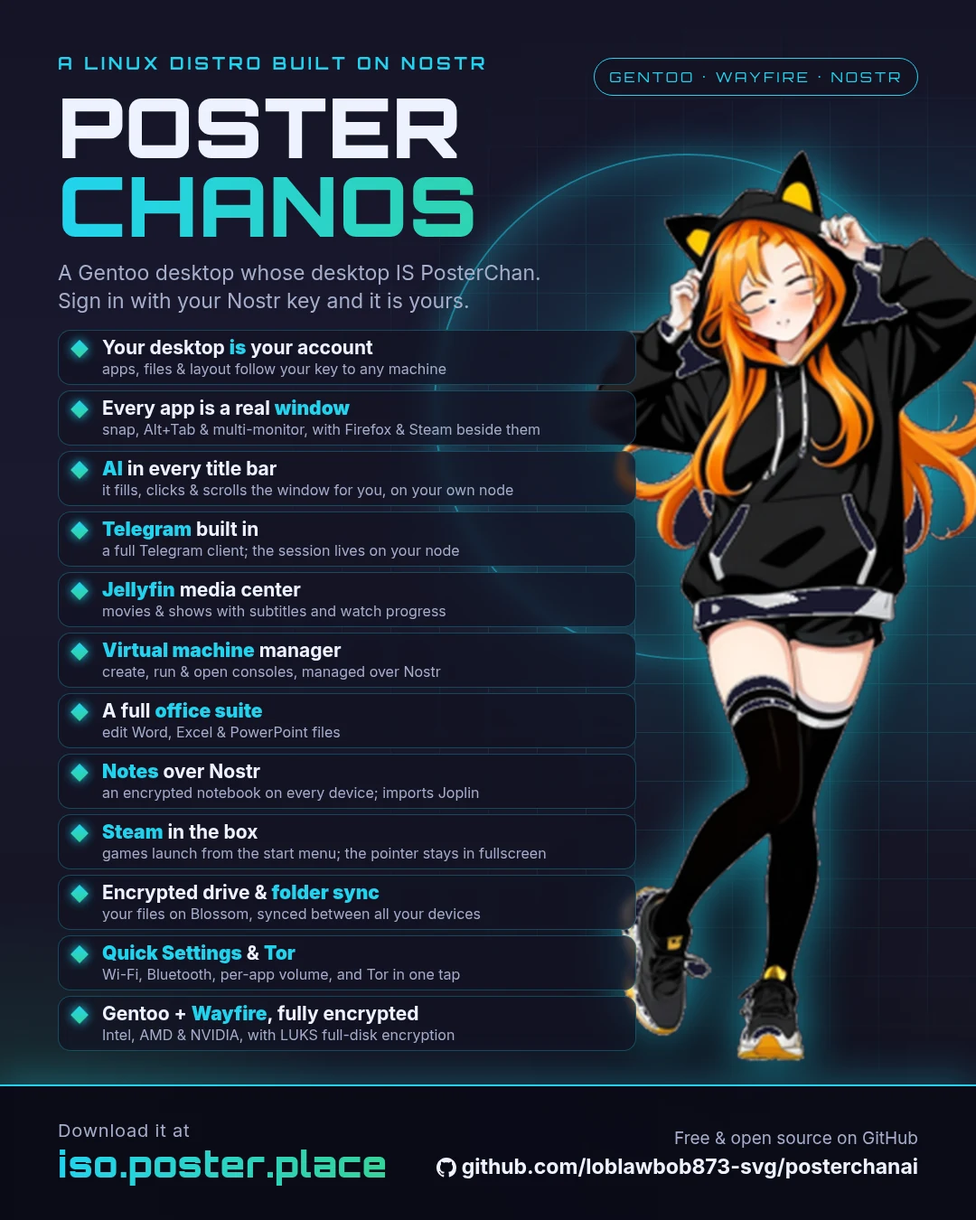
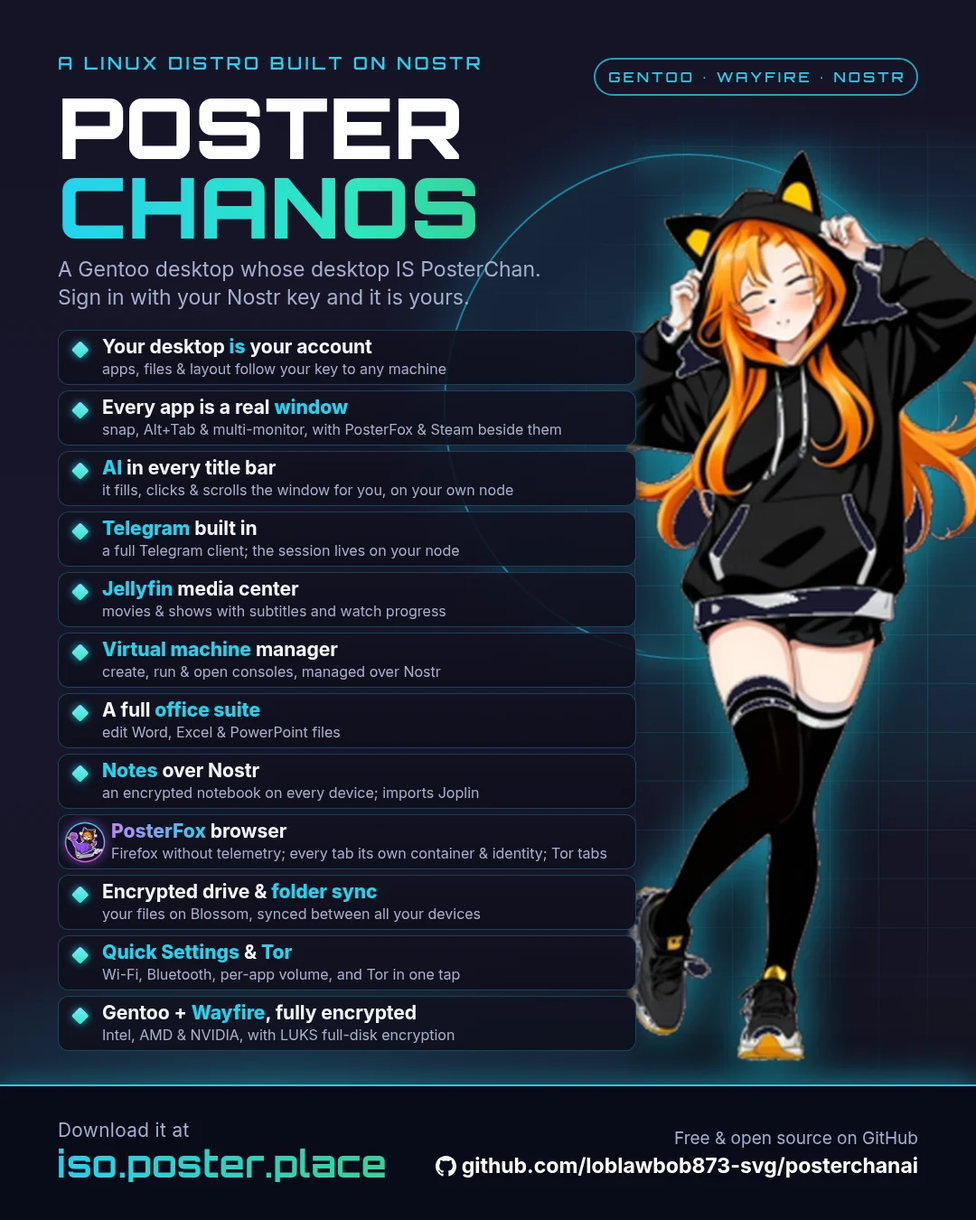
PosterChanOS promo + iso.poster.place: PosterFox, PosterChanOS's own browser
The poster (docs/promo/posterchan-os.webp) is now reproducible: its source was never committed, so
docs/promo/posterchanos-promo.html redraws it (Orbitron + Inter from Google Fonts, the mascot as an
image layer cut from the old poster, docs/promo/src/) and scripts/make_promo_poster.py renders it with
headless Chrome over CDP at exactly 1080x1350. The renderer refuses to write a poster whose web fonts
did not load, that has other than 12 cards, or where any card's text leaves its box or anything leaves
the canvas. Measured against the old poster, the shared text lands within 1-2px.

Content: the "Steam in the box" card is now "PosterFox browser -- Firefox without telemetry; every tab
its own container & identity; Tor tabs" with the PosterFox badge as its icon, and Steam moved into the
window card ("with PosterFox & Steam beside them"). README alt text mentions PosterFox.

iso.poster.place: a PosterFox band (artwork docs/promo/posterfox.webp, published as site/posterfox.webp,
five feature lines, link to the PosterFox releases), a card in the features grid, and the desktop
band's "Firefox, Steam" is now "PosterFox, Steam". Checked at 390px and 1280px: no horizontal scroll.

Tests: tests/test_iso_site.py 8 passed (new: the PosterFox section, image, releases link and grid card;
every /site/ image the page shows is in the publisher's FILES). Fail-first: the new test and the
updated FILES pin fail against the previous page/publisher (2 failed). test_readme_links_the_iso 1
[…]

diff --git a/docs/promo/posterchanos-promo.html b/docs/promo/posterchanos-promo.html
@@ -1,0 +1,93 @@
+<!doctype html>
+<html lang="en"><head><meta charset="utf-8">
+<title>PosterChanOS promo poster</title>
+<!-- Source of docs/promo/posterchan-os.webp (1080x1350). Render with scripts/make_promo_poster.py.
+     The mascot is an image layer cut from the original poster (src/posterchanos-mascot.png), with its own
+     glow behind her; everything else is drawn here. Keep exactly 12 cards: that is what fits. -->
+<link rel="preconnect" href="https://fonts.googleapis.com">
+<link rel="preconnect" href="https://fonts.gstatic.com" crossorigin>
+<link rel="stylesheet" href="https://fonts.googleapis.com/css2?family=Orbitron:wght@500;600;700;800;900&family=Inter:wght@400;500;700;800&display=block">
+<style>
+*{box-sizing:border-box;margin:0;padding:0}
+html,body{width:1080px;height:1350px;overflow:hidden}
+body{position:relative;font-family:Inter,system-ui,sans-serif;color:#eef1ff;background:#151426}
+/* the stage above the footer: grid + glows */
+.stage{position:absolute;left:0;top:0;width:1080px;height:1200px;overflow:hidden;
+  background:
+    radial-gradient(ellipse 760px 230px at 28% 100%,rgba(34,211,238,.20),transparent 70%),
+    radial-gradient(ellipse 620px 170px at 85% 100%,rgba(34,211,238,.10),transparent 70%),
+    radial-gradient(circle 360px at 770px 449px,rgba(34,211,238,.20),rgba(34,211,238,.06) 70%,transparent 100%),
+    linear-gradient(180deg,#151426 0%,#17162b 55%,#161628 100%)}
+.grid{position:absolute;inset:0;
+  background-image:linear-gradient(rgba(34,211,238,.07) 1px,transparent 1px),linear-gradient(90deg,rgba(34,211,238,.07) 1px,transparent 1px);
+  background-size:54px 54px;background-position:0 0px;
+  -webkit-mask-image:radial-gradient(circle 430px at 790px 520px,#000 30%,transparent 100%);
+          mask-image:radial-gradient(circle 430px at 790px 520px,#000 30%,transparent 100%)}
+.ring{position:absolute;left:491px;top:170px;width:558px;height:558px;border-radius:50%;
+  border:2px solid rgba(34,211,238,.55);box-shadow:0 0 60px rgba(34,211,238,.18),inset 0 0 80px rgba(34,211,238,.10)}
+.mascot{position:absolute;left:690px;top:120px;width:390px;height:1079px}
+
+.eyebrow{position:absolute;left:64px;top:60px;font:600 19.5px/1 Orbitron,sans-serif;letter-spacing:.17em;color:#22d3ee}
+.pill{position:absolute;left:657px;top:64px;width:359px;height:42px;border:2px solid rgba(34,211,238,.75);border-radius:22px;
+  display:flex;align-items:center;justify-content:center;font:500 16px/1 Orbitron,sans-serif;letter-spacing:.19em;color:#22d3ee;padding-left:.19em}
+h1{position:absolute;left:64px;top:96.5px;font:900 93px/88px Orbitron,sans-serif;letter-spacing:.005em}
+h1 .a{display:block;color:#fff}
+h1 .b{display:block;background:linear-gradient(90deg,#22d3ee,#2ee6c0 70%,#34d399);-webkit-background-clip:text;background-clip:text;color:transparent}
+.lede{position:absolute;left:64px;top:283px;width:600px;font:400 23px/31px Inter,sans-serif;color:#a5adcb}
+
+ul.cards{position:absolute;left:64px;top:365px;width:640px;list-style:none;display:flex;flex-direction:column;gap:6px}
+.cards li{position:relative;height:61px;border:1px solid rgba(34,211,238,.28);border-radius:12px;
+  background:linear-gradient(180deg,rgba(18,18,33,.90),rgba(14,14,27,.86));padding:5px 12px 0 48px;overflow:hidden}
+.cards li::before{content:'';position:absolute;left:16.5px;top:13.5px;width:13.5px;height:13.5px;transform:rotate(45deg);border-radius:2px;
+  background:linear-gradient(135deg,#7fe8ff,#2ee6c0);box-shadow:0 0 10px rgba(34,211,238,.8)}
+.cards li.badge::before{display:none}
+.cards li.badge img{position:absolute;left:5px;top:6px;width:48px;height:48px;filter:drop-shadow(0 0 6px rgba(167,110,255,.55))}
+.cards li.badge{padding-left:58px}
+.cards h2{font:700 21.1px/26px Inter,sans-serif;color:#f4f6ff;white-space:nowrap;letter-spacing:-.003em}
+.cards h2 b{color:#22d3ee;font-weight:800}
+.cards li.badge h2 b{background:linear-gradient(90deg,#c084fc,#22d3ee);-webkit-background-clip:text;background-clip:text;color:transparent}
+.cards p{font:400 16px/20px Inter,sans-serif;color:#a9b0cc;white-space:nowrap;margin-top:1px}
+
+.foot{position:absolute;left:0;top:1200px;width:1080px;height:150px;background:#080b18;border-top:2px solid #40c5dc;
+  box-shadow:0 -6px 24px rgba(34,211,238,.25)}
+.dl{position:absolute;left:64px;top:39px;font:400 20.7px/1 Inter,sans-serif;color:#a5adcb;letter-spacing:.02em}
+.iso{position:absolute;left:63px;top:65px;font:700 41px/1 Orbitron,sans-serif;letter-spacing:.01em;
+  background:linear-gradient(90deg,#22d3ee,#34d399);-webkit-background-clip:text;background-clip:text;color:transparent}
+.free{position:absolute;right:64px;top:48px;font:400 19px/1 Inter,sans-serif;color:#a5adcb}
+.gh{position:absolute;right:64px;top:77px;font:700 23px/1 Inter,sans-serif;color:#fff;display:flex;align-items:center;gap:6px}
+.gh svg{width:23px;height:23px}
+</style></head>
+<body>
+<div class="stage">
+  <div class="grid"></div>
+  <div class="ring"></div>
+  <img class="mascot" src="src/posterchanos-mascot.png" alt="">
+</div>
+
+<div class="eyebrow">A LINUX DISTRO BUILT ON NOSTR</div>
+<div class="pill">GENTOO · WAYFIRE · NOSTR</div>
+<h1><span class="a">POSTER</span><span class="b">CHANOS</span></h1>
+<p class="lede">A Gentoo desktop whose desktop IS PosterChan.<br>Sign in with your Nostr key and it is yours.</p>
+
+<ul class="cards">
+  <li><h2>Your desktop <b>is</b> your account</h2><p>apps, files &amp; layout follow your key to any machine</p></li>
+  <li><h2>Every app is a real <b>window</b></h2><p>snap, Alt+Tab &amp; multi-monitor, with PosterFox &amp; Steam beside them</p></li>
+  <li><h2><b>AI</b> in every title bar</h2><p>it fills, clicks &amp; scrolls the window for you, on your own node</p></li>
+  <li><h2><b>Telegram</b> built in</h2><p>a full Telegram client; the session lives on your node</p></li>
+  <li><h2><b>Jellyfin</b> media center</h2><p>movies &amp; shows with subtitles and watch progress</p></li>
+  <li><h2><b>Virtual machine</b> manager</h2><p>create, run &amp; open consoles, managed over Nostr</p></li>
+  <li><h2>A full <b>office suite</b></h2><p>edit Word, Excel &amp; PowerPoint files</p></li>
+  <li><h2><b>Notes</b> over Nostr</h2><p>an encrypted notebook on every device; imports Joplin</p></li>
+  <li class="badge"><img src="src/posterfox-badge.png" alt=""><h2><b>PosterFox</b> browser</h2><p>Firefox without telemetry; every tab its own container &amp; identity; Tor tabs</p></li>
+  <li><h2>Encrypted drive &amp; <b>folder sync</b></h2><p>your files on Blossom, synced between all your devices</p></li>
+  <li><h2><b>Quick Settings</b> &amp; <b>Tor</b></h2><p>Wi-Fi, Bluetooth, per-app volume, and Tor in one tap</p></li>
+  <li><h2>Gentoo + <b>Wayfire</b>, fully encrypted</h2><p>Intel, AMD &amp; NVIDIA, with LUKS full-disk encryption</p></li>
+</ul>
+
+<footer class="foot">
+  <div class="dl">Download it at</div>
+  <div class="iso">iso.poster.place</div>
+  <div class="free">Free &amp; open source on GitHub</div>
+  <div class="gh"><svg viewBox="0 0 16 16" fill="#fff" aria-hidden="true"><path d="M8 0C3.58 0 0 3.58 0 8c0 3.54 2.29 6.53 5.47 7.59.4.07.55-.17.55-.38 0-.19-.01-.82-.01-1.49-2.01.37-2.53-.49-2.69-.94-.09-.23-.48-.94-.82-1.13-.28-.15-.68-.52-.01-.53.63-.01 1.08.58 1.23.82.72 1.21 1.87.87 2.33.66.07-.52.28-.87.51-1.07-1.78-.2-3.64-.89-3.64-3.95 0-.87.31-1.59.82-2.15-.08-.2-.36-1.02.08-2.12 0 0 .67-.21 2.2.82.64-.18 1.32-.27 2-.27.68 0 1.36.09 2 .27 1.53-1.04 2.2-.82 2.2-.82.44 1.1.16 1.92.08 2.12.51.56.82 1.27.82 2.15 0 3.07-1.87 3.75-3.65 3.95.29.25.54.73.54 1.48 0 1.07-.01 1.93-.01 2.2 0 .21.15.46.55.38A8.013 8.013 0 0016 8c0-4.42-3.58-8-8-8z"/></svg>github.com/loblawbob873-svg/posterchanai</div>
+</footer>
+</body></html>

diff --git a/os/iso-site/index.html b/os/iso-site/index.html
@@ -67,6 +67,16 @@ section.band{padding-block:56px;border-top:1px solid var(--line)}
 .card h3{margin:0;font:700 17px/1.3 var(--body)}
 .card h3 b{color:var(--a)}
 .card p{margin:0;color:var(--muted);font-size:15px}
+.fox{display:grid;grid-template-columns:minmax(0,300px) minmax(0,1fr);gap:36px;align-items:center}
+.fox img{width:100%;max-width:300px;height:auto;justify-self:center;filter:drop-shadow(0 0 40px rgba(167,110,255,.35))}
+.fox .head{margin-bottom:18px}
+.fox h2 b{background:linear-gradient(90deg,#c084fc,var(--a));-webkit-background-clip:text;background-clip:text;color:transparent}
+.ticks{list-style:none;margin:0 0 22px;padding:0;display:grid;gap:10px}
+.ticks li{position:relative;padding-left:26px;color:var(--muted)}
+.ticks li::before{content:'';position:absolute;left:3px;top:.55em;width:10px;height:10px;transform:rotate(45deg);border-radius:2px;
+  background:linear-gradient(135deg,#c084fc,var(--a));box-shadow:0 0 10px rgba(167,110,255,.6)}
+.ticks b{color:var(--fg)}
+.btn.alt{color:var(--fg);background:var(--panel);border:1px solid rgba(192,132,252,.55);box-shadow:0 10px 30px rgba(167,110,255,.18)}
 .steps{display:grid;grid-template-columns:repeat(auto-fit,minmax(min(100%,230px),1fr));gap:14px;padding:0;margin:0;list-style:none;counter-reset:s}
 .steps li{padding:18px;border-radius:14px;background:var(--panel);border:1px solid var(--line);counter-increment:s;display:grid;gap:4px;min-width:0}
 .steps li::before{content:counter(s);font:900 22px var(--display);color:var(--a)}
@@ -80,6 +90,8 @@ footer{border-top:1px solid var(--line);padding-block:28px 40px;color:var(--mute
 @media (max-width:860px){
   .hero{grid-template-columns:1fr}
   .poster{max-width:440px}
+  .fox{grid-template-columns:1fr;gap:20px}
+  .fox img{max-width:220px}
 }
 </style>
 </head>
@@ -106,16 +118,37 @@ footer{border-top:1px solid var(--line);padding-block:28px 40px;color:var(--mute
       </div>
     </div>
     <img class="poster" src="/site/posterchan-os.webp" width="1080" height="1350"
-         alt="PosterChanOS: your desktop is your account, every app a real window, AI in every title bar, Telegram, a Jellyfin media center, virtual machines, an office suite, Notes, Steam, encrypted drive and folder sync, Quick Settings and Tor, Gentoo and Wayfire with full-disk encryption.">
+         alt="PosterChanOS: your desktop is your account, every app a real window, AI in every title bar, Telegram, a Jellyfin media center, virtual machines, an office suite, Notes, the PosterFox browser, Steam, encrypted drive and folder sync, Quick Settings and Tor, Gentoo and Wayfire with full-disk encryption.">
   </section>
 
   <section class="band" aria-labelledby="h-desk">
     <div class="head">
       <div class="k">The desktop</div>
       <h2 id="h-desk">Every app is a real window.</h2>
-      <p>Snap them, Alt+Tab between them, spread them over several monitors. Firefox, Steam and your other programs sit in the same taskbar.</p>
+      <p>Snap them, Alt+Tab between them, spread them over several monitors. PosterFox, Steam and your other programs sit in the same taskbar.</p>
     </div>
     <img class="shot" src="/site/posterchanos-desktop.webp" width="2560" height="1529" loading="lazy" alt="The PosterChanOS desktop with app icons, an open window and the taskbar.">
+  </section>
+
+  <section class="band" id="posterfox" aria-labelledby="h-fox">
+    <div class="fox">
+      <img src="/site/posterfox.webp" width="640" height="640" loading="lazy" alt="PosterFox: PosterChan riding a purple ostrich on a round neon badge.">
+      <div>
+        <div class="head">
+          <div class="k">The browser</div>
+          <h2 id="h-fox"><b>PosterFox</b>, Firefox that keeps to itself.</h2>
+          <p>PosterChanOS's own browser: Mozilla's Firefox, built from source.</p>
+        </div>
+        <ul class="ticks">
+          <li><b>No telemetry, compiled out</b>, and no Mozilla account.</li>
+          <li><b>uBlock Origin, Privacy Badger</b> and PosterChan Passwords built in.</li>
+          <li><b>Every tab is its own container</b> and presents a different real browser.</li>
+          <li><b>Tor tabs</b>: .onion and the sites you choose open in Tor by themselves.</li>
+          <li><b>PosterChan AI</b> in the AI sidebar; background tabs sleep.</li>
+        </ul>
+        <a class="btn alt" id="posterfox-dl" href="https://github.com/loblawbob873-svg/posterfox/releases">Download PosterFox for Linux</a>
+      </div>
+    </div>
   </section>
 
   <section class="band" aria-labelledby="h-f">
@@ -131,6 +164,7 @@ footer{border-top:1px solid var(--line);padding-block:28px 40px;color:var(--mute
       <div class="card"><h3><b>Virtual machine</b> manager</h3><p>Create, run and open consoles, managed over Nostr.</p></div>
       <div class="card"><h3>A full <b>office suite</b></h3><p>Edit Word, Excel and PowerPoint files.</p></div>
       <div class="card"><h3><b>Notes</b> over Nostr</h3><p>An encrypted notebook on every device. Imports from Joplin.</p></div>
+      <div class="card"><h3><b>PosterFox</b> browser</h3><p>Firefox without telemetry. Every tab its own container and identity; Tor tabs. <a href="#posterfox">More</a></p></div>
       <div class="card"><h3><b>Steam</b> in the box</h3><p>Games launch from the start menu, and the pointer stays inside a fullscreen game.</p></div>
       <div class="card"><h3>Encrypted drive &amp; <b>folder sync</b></h3><p>Your files on Blossom, synced between all your devices.</p></div>
       <div class="card"><h3><b>Quick Settings</b> &amp; <b>Tor</b></h3><p>Wi-Fi, Bluetooth, per-app volume, brightness, screenshots, and Tor with the exit country you pick.</p></div>

diff --git a/scripts/make_promo_poster.py b/scripts/make_promo_poster.py
@@ -1,0 +1,158 @@
+#!/usr/bin/env python3
+"""Render docs/promo/posterchanos-promo.html into docs/promo/posterchan-os.webp (exactly 1080x1350).
+
+    venv-unified/bin/python scripts/make_promo_poster.py [--out PATH] [--png PATH] [--check]
+
+Drives headless Chrome over CDP: loads the page from disk, waits for the web fonts (Orbitron, Inter
+from Google Fonts -- a poster drawn in a fallback face is refused, not saved) and the image layers,
+then MEASURES that every card's text fits inside its card and that nothing leaves the canvas before
+taking the screenshot. A poster that clips a line is an error here, never a file.
+
+--check   measure only, write nothing.  --png  also keep the lossless screenshot.
+Chrome: $PC_CHROME or /opt/google/chrome/chrome.  Port: $PC_CHECK_PORT (default 9497).
+Exit 0 = written (or clean with --check), 1 = layout problems, 2 = could not run.
+"""
+import base64
+import io
+import json
+import os
+import shutil
+import subprocess
+import sys
+import tempfile
+import time
+import urllib.request
+from pathlib import Path
+
+ROOT = Path(__file__).resolve().parents[1]
+PAGE = ROOT / "docs/promo/posterchanos-promo.html"
+OUT = ROOT / "docs/promo/posterchan-os.webp"
+W, H = 1080, 1350
+CHROME = os.environ.get("PC_CHROME") or "/opt/google/chrome/chrome"
+PORT = int(os.environ.get("PC_CHECK_PORT") or 9497)
+
+MEASURE = r"""
+(async () => {
+  await document.fonts.ready;
+  const imgs = [...document.images];
+  await Promise.all(imgs.map(i => i.complete ? 0 : new Promise(r => { i.onload = i.onerror = r; })));
+  const out = {problems: [], cards: 0};
+  for (const f of ['900 40px Orbitron', '700 20px Inter', '400 16px Inter'])
+    if (!document.fonts.check(f) || ![...document.fonts].some(x => x.status === 'loaded' && f.includes(x.family)))
+      out.problems.push('font not loaded: ' + f);
+  for (const i of imgs) if (!i.naturalWidth) out.problems.push('image did not load: ' + i.getAttribute('src'));
+  const cards = [...document.querySelectorAll('ul.cards > li')];
+  out.cards = cards.length;
+  if (cards.length !== 12) out.problems.push('expected 12 cards, found ' + cards.length);
+  for (const li of cards) {
+    const box = li.getBoundingClientRect(), pad = parseFloat(getComputedStyle(li).paddingRight);
+    for (const el of li.querySelectorAll('h2,p')) {
+      const r = document.createRange(); r.selectNodeContents(el);
+      const t = r.getBoundingClientRect();
+      if (t.right > box.right - pad + 0.5 || t.bottom > box.bottom - 1 || t.top < box.top)
+        out.problems.push(`text overflows its card: "${el.textContent.trim()}" (${Math.round(t.right)} > ${Math.round(box.right - pad)})`);
+    }
+  }
+  for (const el of document.querySelectorAll('body *')) {
+    if (el.closest('.stage')) continue;
+    const r = el.getBoundingClientRect();
+    if (r.width && (r.left < 0 || r.right > innerWidth + 0.5 || r.bottom > innerHeight + 0.5))
+      out.problems.push('outside the canvas: <' + el.tagName.toLowerCase() + ' class="' + el.className + '">');
+  }
+  const last = cards[cards.length - 1], foot = document.querySelector('.foot');
+  if (last && foot && last.getBoundingClientRect().bottom > foot.getBoundingClientRect().top - 20)
+    out.problems.push('the cards run into the footer');
+  return JSON.stringify(out);
+})()
+"""
+
+
+class CDP:
+    def __init__(self, ws_url):
+        import websocket
+        self.ws = websocket.create_connection(ws_url, timeout=60, suppress_origin=True)
+        self.n = 0
+
+    def call(self, method, **params):
+        self.n += 1
+        self.ws.send(json.dumps({"id": self.n, "method": method, "params": params}))
+        while True:
+            msg = json.loads(self.ws.recv())
+            if msg.get("id") == self.n:
+                if "error" in msg:
+                    raise RuntimeError(f"{method}: {msg['error']}")
+                return msg.get("result", {})
+
+
+def render(check_only=False, out=OUT, png=None):
+    if not Path(CHROME).exists():
+        print(f"could not run: no Chrome at {CHROME}")
+        return 2
+    prof = tempfile.mkdtemp(prefix="pc-promo-")
+    proc = subprocess.Popen([CHROME, "--headless=new", f"--remote-debugging-port={PORT}", f"--user-data-dir={prof}",
+                             "--no-first-run", "--hide-scrollbars", "--allow-file-access-from-files",
+                             "--force-color-profile=srgb", f"--window-size={W},{H}", "about:blank"],
+                            stdout=subprocess.DEVNULL, stderr=subprocess.DEVNULL)
+    try:
+        target = None
+        for _ in range(100):
+            try:
+                tabs = json.load(urllib.request.urlopen(f"http://127.0.0.1:{PORT}/json", timeout=2))
+                target = next(t for t in tabs if t.get("type") == "page")
+                break
+            except Exception:
+                time.sleep(0.1)
+        if not target:
+            print("could not run: Chrome's debugging port never answered")
+            return 2
+        c = CDP(target["webSocketDebuggerUrl"])
+        c.call("Emulation.setDeviceMetricsOverride", width=W, height=H, deviceScaleFactor=1, mobile=False)
+        c.call("Page.enable")
+        c.call("Page.navigate", url=PAGE.as_uri())
+        res = None
+        for _ in range(3):   # the first evaluate can land before the navigation commits
+            time.sleep(0.5)
+            r = c.call("Runtime.evaluate", expression=MEASURE, awaitPromise=True, returnByValue=True)
+            res = json.loads(r["result"].get("value") or "null")
+            if res and res["cards"]:
+                break
+        if not res:
+            print("could not run: the page did not evaluate")
+            return 2
+        for p in res["problems"]:
+            print("PROBLEM:", p)
+        if res["problems"]:
+            return 1
+        if check_only:
+            print(f"clean: {res['cards']} cards, every line fits")
+            return 0
+        shot = c.call("Page.captureScreenshot", format="png",
+                      clip={"x": 0, "y": 0, "width": W, "height": H, "scale": 1}, captureBeyondViewport=False)
+        raw = base64.b64decode(shot["data"])
+        from PIL import Image
+        im = Image.open(io.BytesIO(raw)).convert("RGB")
+        if im.size != (W, H):
+            print(f"PROBLEM: screenshot is {im.size}, not {(W, H)}")
+            return 1
+        if png:
+            Path(png).write_bytes(raw)
+        im.save(out, "WEBP", quality=88, method=6)
+        print(f"wrote {out} ({Path(out).stat().st_size} bytes, {W}x{H}); {res['cards']} cards, every line fits")
+        return 0
+    finally:
+        proc.terminate()
+        try:
+            proc.wait(5)
+        except subprocess.TimeoutExpired:
+            proc.kill()
+        shutil.rmtree(prof, ignore_errors=True)
+
+
+def main(argv):
+    def arg(name):
+        return argv[argv.index(name) + 1] if name in argv else None
+    return render(check_only="--check" in argv, out=Path(arg("--out") or OUT), png=arg("--png"))
+
+
+if __name__ == "__main__":
+    sys.exit(main(sys.argv[1:]))

diff --git a/tests/test_iso_site.py b/tests/test_iso_site.py
@@ -19,6 +19,33 @@ def test_the_page_downloads_the_iso_and_reads_its_live_checksum():
         assert path.is_file(), f"{path} is missing"
 
 
+def test_the_page_promotes_posterfox_with_its_artwork_and_download():
+    """PosterFox is PosterChanOS's default browser: the page has a section for it with its badge art,
+    the art is one of the files the publisher uploads (a page naming an unpublished image shows a broken
+    picture), and it links the portable download."""
+    import re
+    sec = re.search(r'<section class="band" id="posterfox".*?</section>', PAGE, re.S)
+    assert sec, "no PosterFox section on the page"
+    sec = sec.group(0)
+    assert 'src="/site/posterfox.webp"' in sec and "alt=" in sec
+    assert 'href="https://github.com/loblawbob873-svg/posterfox/releases"' in sec
+    assert re.search(r"<h2[^>]*>.*PosterFox", sec, re.S)
+    assert len(re.findall(r"<li>", sec)) >= 3, "the section lists what PosterFox does"
+    assert '<h3><b>PosterFox</b> browser</h3>' in PAGE, "no PosterFox card in the features grid"
+    published = {key: path for key, path, _ct, _cc in site.FILES}
+    assert "site/posterfox.webp" in published and published["site/posterfox.webp"].is_file()
+    from PIL import Image
+    with Image.open(published["site/posterfox.webp"]) as im:
+        assert im.format == "WEBP"
+
+
+def test_every_site_image_the_page_uses_is_published():
+    import re
+    published = {key for key, _p, _ct, _cc in site.FILES}
+    for src in re.findall(r'src="/(site/[^"]+)"', PAGE):
+        assert src in published, f"the page shows {src} but the publisher never uploads it"
+
+
 class FakeR2:
     def __init__(self):
         self.puts = []
@@ -31,7 +58,7 @@ class FakeR2:
 def test_the_publisher_writes_only_the_page():
     r2 = FakeR2()
     site.publish(r2, log=lambda m: None)
-    assert r2.puts == ["index.html", "site/posterchan-os.webp", "site/posterchanos-desktop.webp"]
+    assert r2.puts == ["index.html", "site/posterchan-os.webp", "site/posterchanos-desktop.webp", "site/posterfox.webp"]
 
 
 @pytest.mark.parametrize("key", ["posterchanos.iso", "posterchanos.iso.sha256", "site/../posterchanos.iso", "other.html"])

diff --git a/scripts/publish_iso_site.py b/scripts/publish_iso_site.py
@@ -1,5 +1,5 @@
 #!/usr/bin/env python3
-"""Publish the iso.poster.place splash page: os/iso-site/index.html plus its two images.
+"""Publish the iso.poster.place splash page: os/iso-site/index.html plus its images.
 
 The page lives in the same R2 bucket as the ISO and is reached at `/` through ONE Cloudflare URL
 Rewrite rule on poster.place: `(http.host eq "iso.poster.place" and http.request.uri.path eq "/")`
@@ -21,6 +21,7 @@ FILES = [
     ("index.html", ROOT / "os/iso-site/index.html", "text/html; charset=utf-8", "public, max-age=300"),
     ("site/posterchan-os.webp", ROOT / "docs/promo/posterchan-os.webp", "image/webp", "public, max-age=86400"),
     ("site/posterchanos-desktop.webp", ROOT / "docs/promo/posterchanos-desktop.webp", "image/webp", "public, max-age=86400"),
+    ("site/posterfox.webp", ROOT / "docs/promo/posterfox.webp", "image/webp", "public, max-age=86400"),
 ]
 
 

diff --git a/README.md b/README.md
@@ -4,7 +4,7 @@
 
 # Poster-chan AI
 
-<a href="https://poster.place"><img src="docs/promo/posterchan-client.webp" alt="PosterChan — more than a Nostr client: Nostr and the fediverse in one timeline (you are @you@poster.place on Mastodon too), full Desktop or Classic view, encrypted drive and folder sync, password manager, Notes over Nostr, calendar and contacts, Monero and Lightning zaps, calls, mini-app games, Android phone mode" width="32%" /></a><a href="#quick-start-backend-and-web-ui"><img src="docs/promo/posterchan-selfhost.webp" alt="Run your own node — relay, Blossom and NIP-05; a native ActivityPub server (@name@yourdomain on the fediverse); Jellyfin-compatible media server; Git over Nostr; virtual machines; local AI; office suite; live streaming; PosterChanOS" width="32%" /></a><a href="https://iso.poster.place/posterchanos.iso"><img src="docs/promo/posterchan-os.webp" alt="PosterChanOS — a Linux distro built on Nostr: your desktop is your account, every app a real window, AI in every title bar, Telegram built in, a Jellyfin media center, a virtual machine manager, an office suite, Notes over Nostr, Steam, encrypted drive and folder sync, Quick Settings and Tor, Gentoo and Wayfire with full-disk encryption. Download at iso.poster.place" width="32%" /></a>
+<a href="https://poster.place"><img src="docs/promo/posterchan-client.webp" alt="PosterChan — more than a Nostr client: Nostr and the fediverse in one timeline (you are @you@poster.place on Mastodon too), full Desktop or Classic view, encrypted drive and folder sync, password manager, Notes over Nostr, calendar and contacts, Monero and Lightning zaps, calls, mini-app games, Android phone mode" width="32%" /></a><a href="#quick-start-backend-and-web-ui"><img src="docs/promo/posterchan-selfhost.webp" alt="Run your own node — relay, Blossom and NIP-05; a native ActivityPub server (@name@yourdomain on the fediverse); Jellyfin-compatible media server; Git over Nostr; virtual machines; local AI; office suite; live streaming; PosterChanOS" width="32%" /></a><a href="https://iso.poster.place/posterchanos.iso"><img src="docs/promo/posterchan-os.webp" alt="PosterChanOS — a Linux distro built on Nostr: your desktop is your account, every app a real window, AI in every title bar, Telegram built in, a Jellyfin media center, a virtual machine manager, an office suite, Notes over Nostr, the PosterFox browser (Firefox without telemetry, every tab its own container and identity, Tor tabs) beside Steam, encrypted drive and folder sync, Quick Settings and Tor, Gentoo and Wayfire with full-disk encryption. Download at iso.poster.place" width="32%" /></a>
 
 <table>
 <tr>
